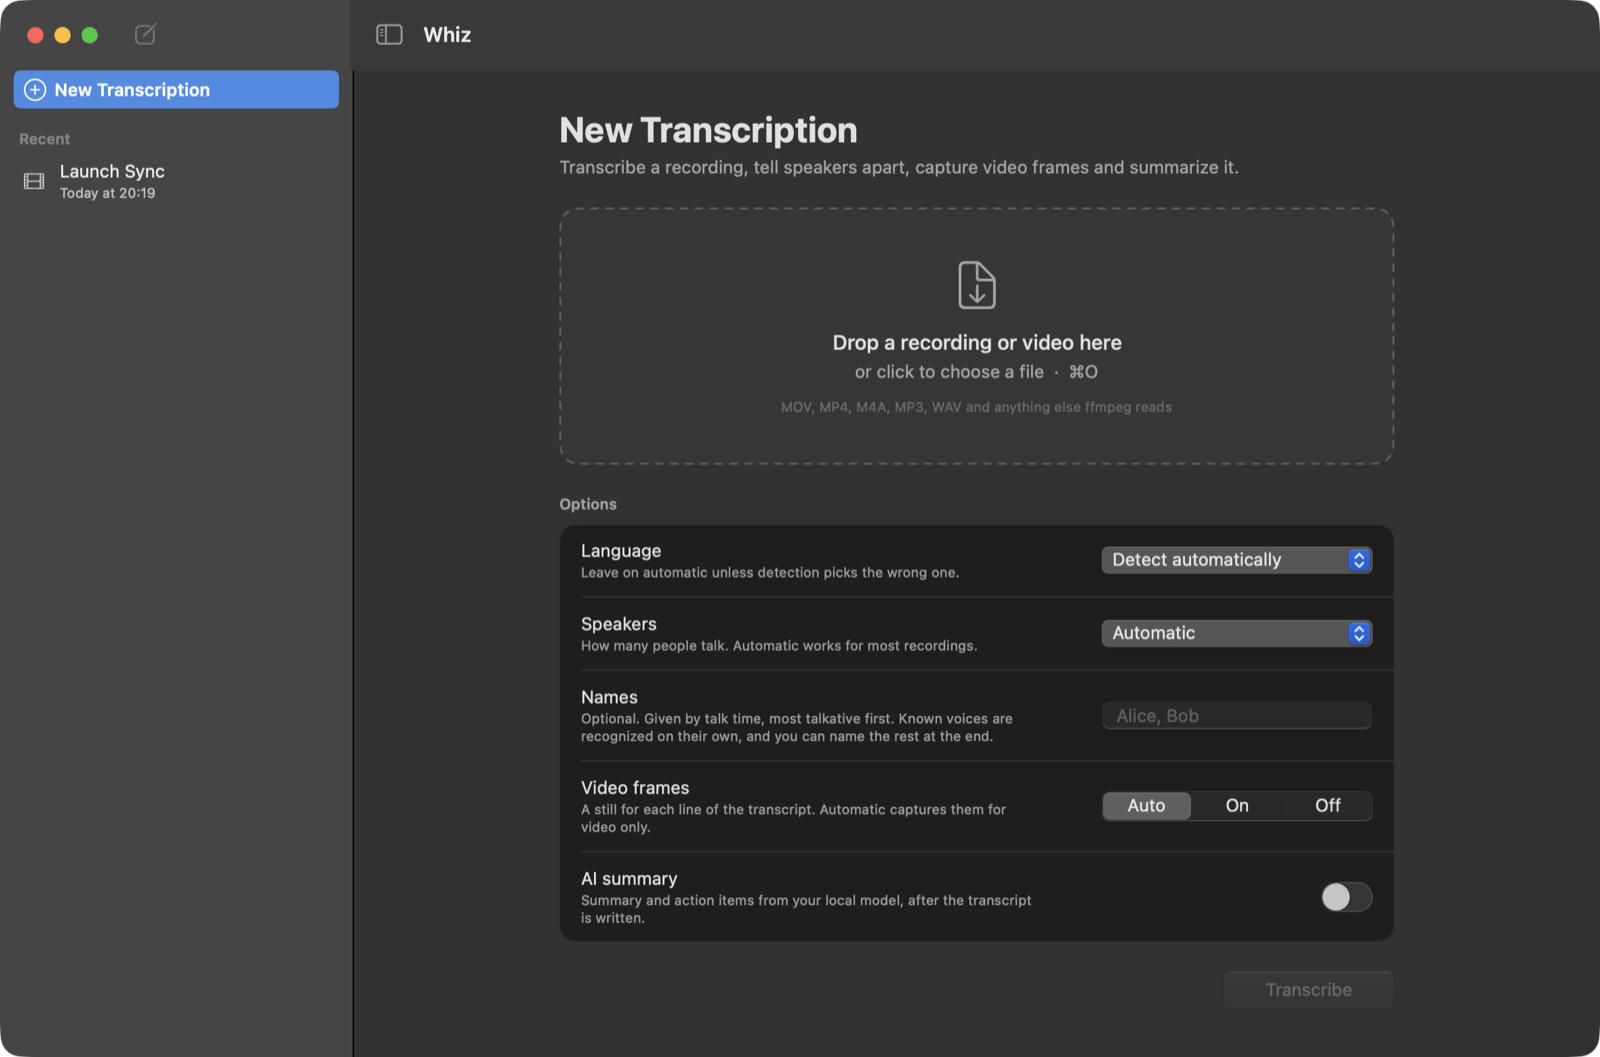
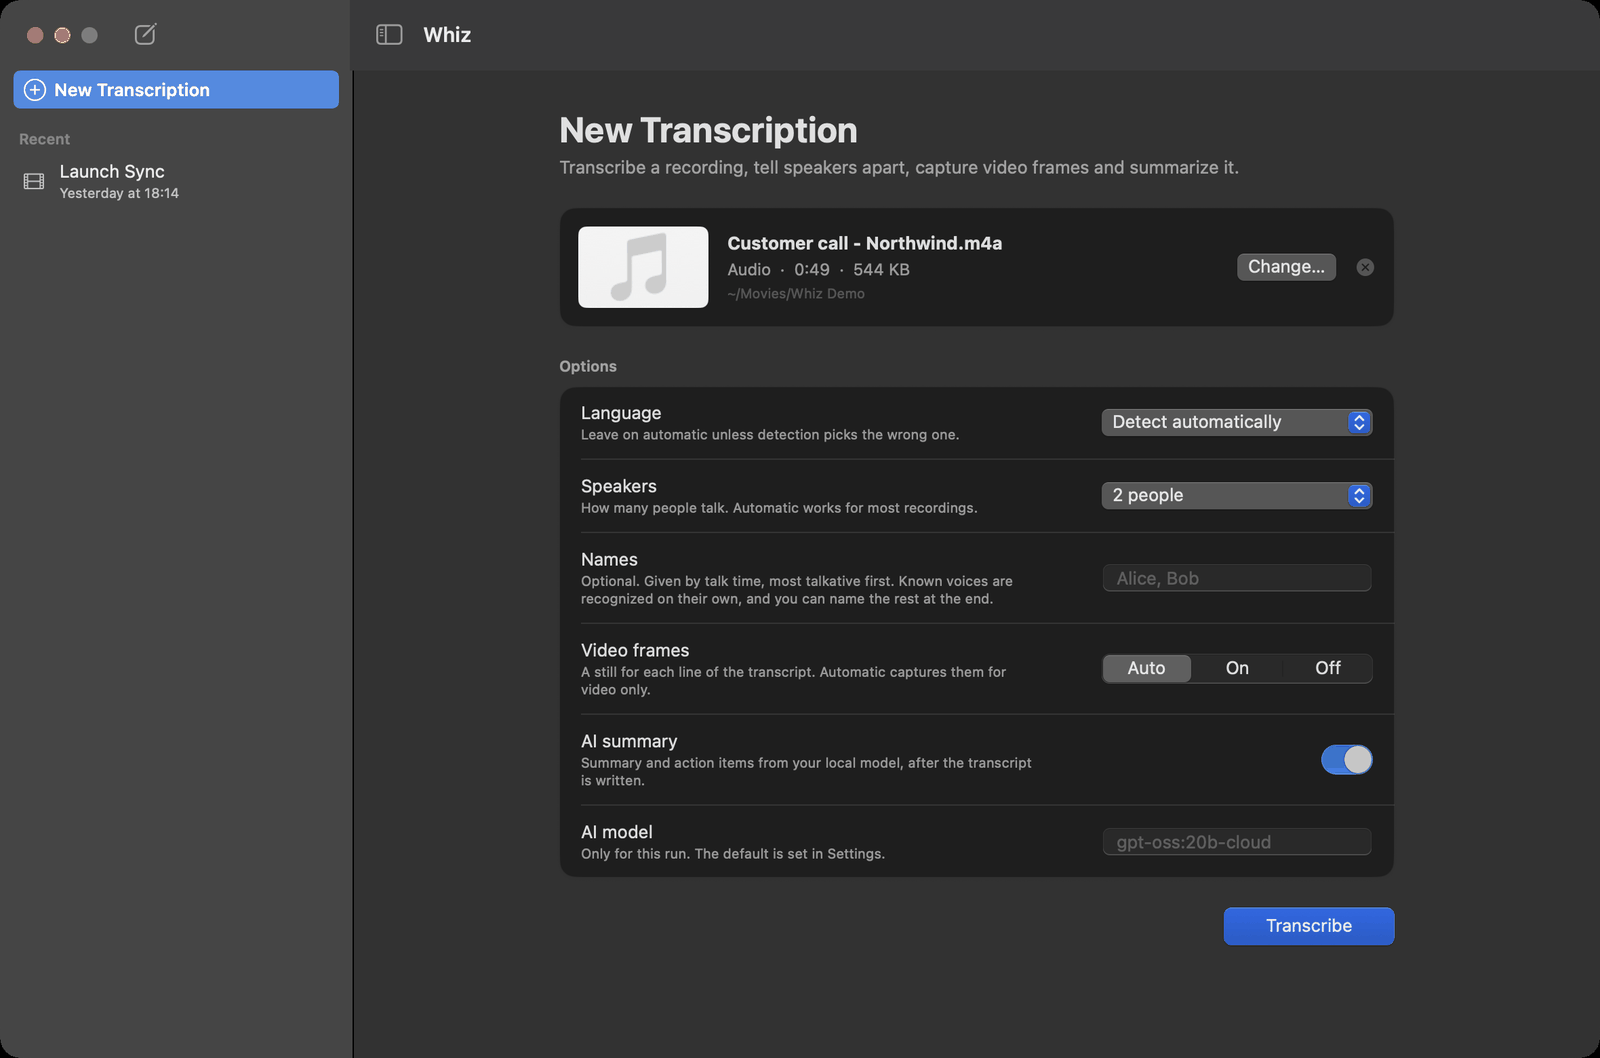
Site + README: frames for your AI agent; real screenshots of every view
- The frames section leads with what users asked for: hand an important
  call to an AI agent that sees it. Every line keeps its frame, so an agent
  that works with files (Claude Code, Codex, Cursor) reads the named
  transcript and the .frames.json index and opens the frames. There is an
  example prompt, and whiz's built-in vision analysis follows as the
  "or let whiz do it" path. Only what exists today is claimed.
- Whiz for Mac: the lede says the frames are ready for your agent, and a
  gallery shows four real views, cropped to what matters: a recording
  that recognizes Tom from an earlier call ("This sounds like Tom. Press
  Return to confirm."), the summary with owners, live progress, and first
  launch with the engine built in.
- New screenshots from a synthetic demo: three macOS voices on slides,
  plus a customer call that brings Tom back. They used an isolated
  WHIZ_CONFIG_DIR, and the app's defaults were backed up and restored, so
  no real recording, voice or setting appears. The hero now shows the
  data slide; app-setup.png no longer shows the old Homebrew flow.
  Images are palette-compressed (45–140 KB each).
- .gitignore: store/.wrangler/.

Claude-Session: https://claude.ai/code/session_01V3vGtBwBjSehbYhRr8HBcp

diff --git a/docs/index.html b/docs/index.html
@@ -298,6 +298,11 @@
   .license-key { display: grid; gap: 10px; margin: 10px 0; }
   .license-key code { display: block; padding: 10px 12px; font-size: 12px; line-height: 1.5; word-break: break-all; user-select: all; }
   .license-key .button { justify-self: start; }
+  .gallery { display: grid; gap: 22px; margin-top: 34px; }
+  @media (min-width: 760px) { .gallery { grid-template-columns: repeat(2, 1fr); } }
+  .gallery figure { margin: 0; }
+  .gallery img { width: 100%; height: auto; border-radius: 8px; border: 1px solid var(--rule); }
+  .gallery figcaption { margin-top: 8px; font-size: .9rem; color: var(--muted); }
   .legal { display: flex; flex-wrap: wrap; gap: 6px 18px; font-family: var(--mono); font-size: 12.5px; margin-top: 10px; }
 </style>
 </head>
@@ -639,15 +644,19 @@ Carol    4 recordings</pre>
 </section>
 
 <section id="vision">
-  <p class="label">Frames, and what the model does with them</p>
-  <h2>It reads the screen as a timeline, not a pile of screenshots</h2>
+  <p class="label">Frames, for you and for your AI</p>
+  <h2>Your AI agent doesn't just read the call. It sees it.</h2>
   <div class="two">
     <div>
-      <p class="section-lede">Every segment gets the frame that was on screen when it was said. That alone makes a screen recording readable — but the analysis goes further when your model can see.</p>
-      <p class="section-lede">The analyst posture <b>reconciles what is visible with what was said</b> and surfaces the discrepancies: the number on the slide that nobody read out, the dialog that has since been redesigned. Consecutive frames are treated as a sequence, so it can reason about what changed between them instead of describing four unrelated pictures.</p>
-      <p class="section-lede">It turns itself on when frames exist and the model can take them. No flag.</p>
+      <p class="section-lede">Every line keeps the frame that was on screen when it was said: the slide, the dashboard, the bug in the demo. So an important call becomes something an AI can really work with, <b>what was said and what everyone was looking at</b>.</p>
+      <p class="section-lede"><b>Hand it to your agent.</b> Point Claude Code, Codex, Cursor or any agent that works with files at the recording's folder: the named transcript, an index of every line with its time, speaker and frame (<code>.frames.json</code>), and the frames themselves. It can turn the meeting into tickets with the slide each decision was made on, check the numbers on screen, or write up the bug that was demoed, picture included.</p>
+      <p class="section-lede"><b>Or let whiz do it.</b> The built-in analysis sends the transcript and the frames to a model that can see. It reconciles what is visible with what was said and flags the discrepancies: the number on the slide that nobody read out, the dialog that has since been redesigned. Consecutive frames are a sequence, so it reasons about what changed between them. It turns itself on when frames exist and the model can take them.</p>
     </div>
     <div class="cards" style="margin-top: 0; grid-template-columns: 1fr;">
+      <div class="card">
+        <p class="label">Asking an agent</p>
+        <p><code>Read "Launch Sync.frames.json" and look at its frames. Turn the meeting into tickets, one per decision, each with the slide it was made on.</code></p>
+      </div>
       <div class="card">
         <p class="label">From an analysis</p>
         <p><b>Discrepancy at 04:31.</b> Carol says the export dialog has three options; the frame shows four, with "CSV (legacy)" added. The doc quoted in the meeting is older than the build on screen.</p>
@@ -715,7 +724,7 @@ Carol    4 recordings</pre>
            alt="Whiz for Mac showing a three-person meeting: each line labeled with the speaker's name and color, beside the slide that was on screen, with a player and search.">
     </div>
     <div>
-      <p class="section-lede">Drop a recording in the window. Whiz transcribes it, tells the speakers apart, recognizes voices you named before, captures what was on screen and writes the summary. <b>Everything it needs comes inside the app</b>: no Homebrew, no Python, no terminal. The speech model downloads on first launch.</p>
+      <p class="section-lede">Drop a recording in the window. Whiz transcribes it, tells the speakers apart, recognizes voices you named before, keeps the frame that was on screen for every line, ready for your AI agent, and writes the summary. <b>Everything it needs comes inside the app</b>: no Homebrew, no Python, no terminal. The speech model downloads on first launch.</p>
       <div class="price" id="buy">
         <div class="amount">$39 <small>once</small></div>
         <ul>
@@ -742,6 +751,28 @@ Carol    4 recordings</pre>
       </div>
       <p class="legal"><a href="terms/">Terms</a><a href="privacy/">Privacy</a><a href="refunds/">Refunds</a></p>
     </div>
+  </div>
+  <div class="gallery">
+    <figure>
+      <img src="assets/app-recognized.png" width="1200" height="800" loading="lazy"
+           alt="A run in progress asks: Who is Speaker A? This sounds like Tom. Press Return to confirm. The name Tom is filled in.">
+      <figcaption>It knows voices you named before. A new recording with Tom in it asks only to confirm him.</figcaption>
+    </figure>
+    <figure>
+      <img src="assets/app-summary.png" width="1200" height="800" loading="lazy"
+           alt="The Summary tab: an overview, key topics, decisions made, and action items with owners such as Tom and Arjun.">
+      <figcaption>A summary with the decisions, and every action item with its owner.</figcaption>
+    </figure>
+    <figure>
+      <img src="assets/app-progress.png" width="1200" height="800" loading="lazy"
+           alt="A transcription in progress: extracting audio done, telling speakers apart at 80 percent, with a Stop button.">
+      <figcaption>Every step as it happens, with progress and time left.</figcaption>
+    </figure>
+    <figure>
+      <img src="assets/app-setup-sheet.png" width="1200" height="800" loading="lazy"
+           alt="Get Whiz Ready: the whiz engine is built in, a speech model, speaker detection and AI summaries, all checked.">
+      <figcaption>First launch: one download, and it's ready. The engine is built in.</figcaption>
+    </figure>
   </div>
 </section>
 

diff --git a/README.md b/README.md
@@ -158,8 +158,12 @@ WHIZ_NOTARY_PROFILE=whiz-notary ./build-dmg.sh   # → signed, notarized, staple
 ```
 
 <p>
-<img src="docs/assets/app-compose.png" alt="New Transcription: a drop zone for a recording, then options for language, speakers, names, video frames and AI summary." width="49%">
-<img src="docs/assets/app-setup.png" alt="The Setup Assistant on a fresh Mac: the whiz engine is installed; whisper.cpp offers Install with Homebrew; the speech model step offers Turbo, Large v3 or Small to download." width="49%">
+<img src="docs/assets/app-compose.png" alt="New Transcription with a customer call chosen: language, two speakers, names, video frames, and AI summary turned on." width="49%">
+<img src="docs/assets/app-setup.png" alt="Get Whiz Ready: the whiz engine is built in; a speech model, speaker detection and AI summaries are all checked." width="49%">
+</p>
+<p>
+<img src="docs/assets/app-recognized.png" alt="A run in progress asks: Who is Speaker A? This sounds like Tom. Press Return to confirm." width="49%">
+<img src="docs/assets/app-summary.png" alt="The Summary tab: overview, key topics, decisions, and action items with owners." width="49%">
 </p>
 
 - **Setup Assistant:** on first launch, a checklist of what Whiz needs: a speech model, and optionally speaker detection and an AI model, each downloaded with one click, with progress. A Whiz.app built without its engine (a bare `swift run`) also lists the CLI and whisper.cpp and ffmpeg, installed through Homebrew and pipx. Without Homebrew, *Install Homebrew…* runs its official installer in Terminal (it asks for your password); coming back to the app checks again. A quantized speech model that is only there by default is flagged, with the full-quality download offered. It reopens from the app menu.
